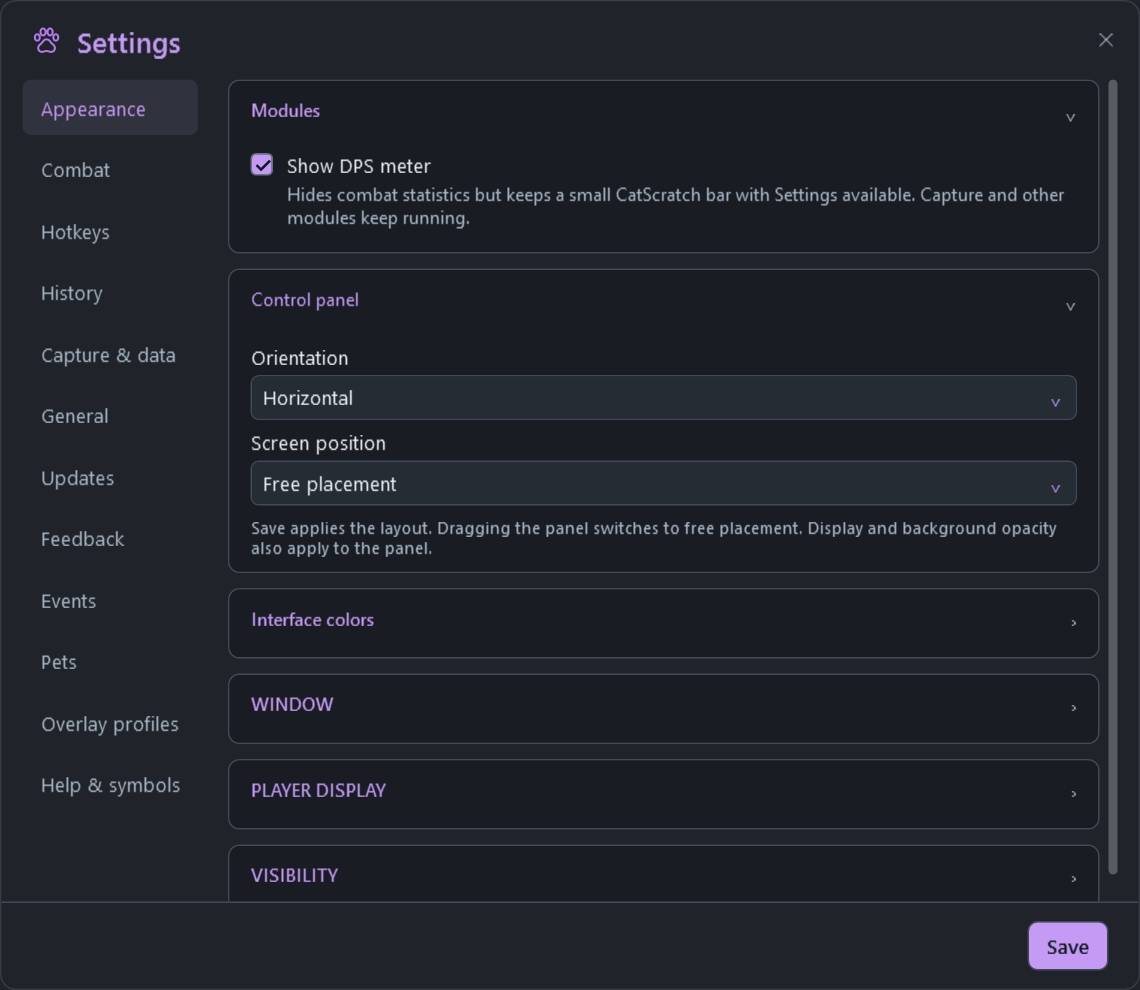
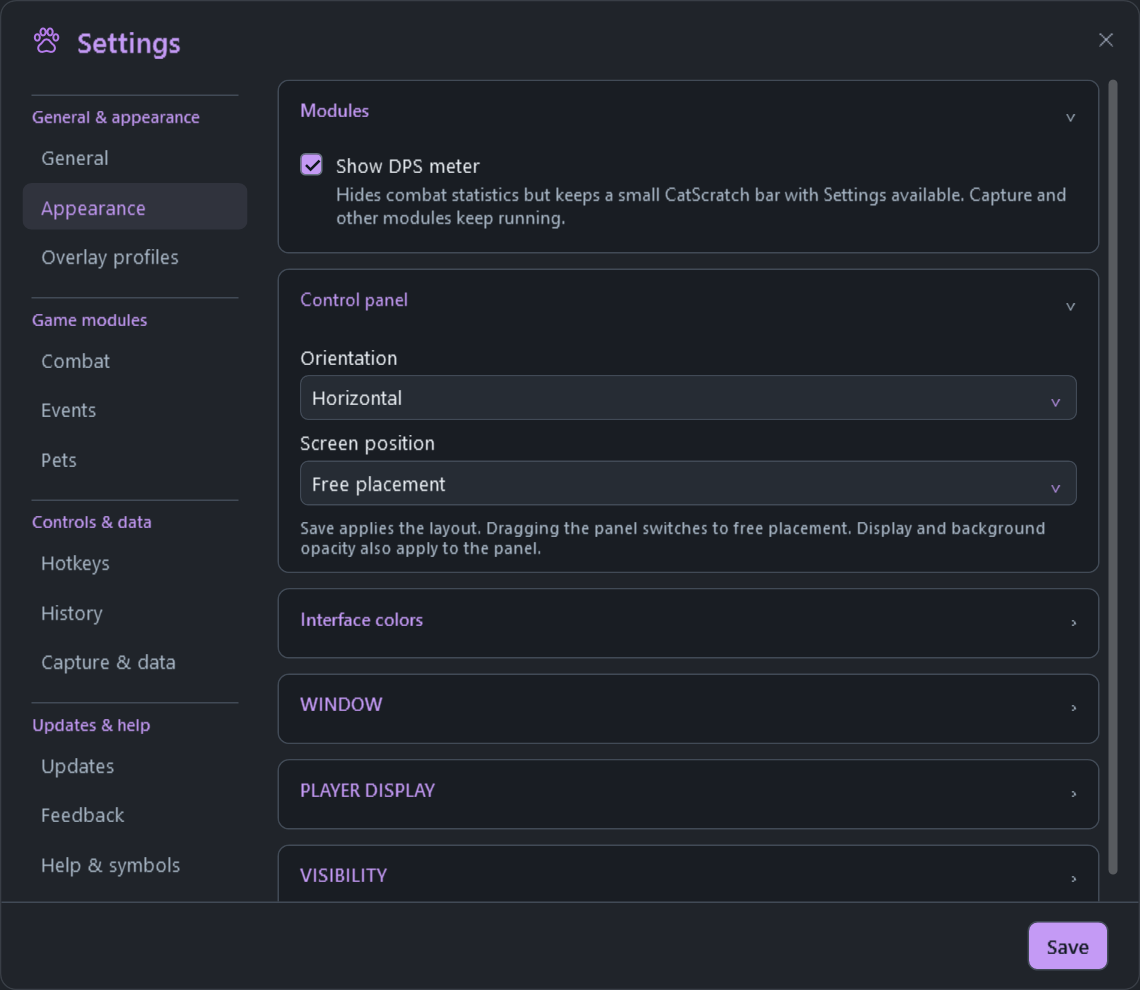
Release CatScratch 3.0.3 Stable with grouped Settings navigation

diff --git a/README.md b/README.md
@@ -6,10 +6,10 @@ A separate, always-on-top Windows DPS meter for **AION 2**, by Zerafithekitten. 
 
 | Channel | Current version | What it includes |
 | --- | --- | --- |
-| **Stable** | **[v3.0.2](https://github.com/Zerafithekitten/CatScratch/releases/tag/v3.0.2)** | Independent control panel, reworked Pet tracker with five recommendations, custom colors and transparency, event timeline and favorites, effective healing and the complete tested Beta feature set. |
+| **Stable** | **[v3.0.3](https://github.com/Zerafithekitten/CatScratch/releases/tag/v3.0.3)** | Independent control panel, reworked Pet tracker with five recommendations, custom colors and transparency, event timeline and favorites, effective healing and the complete tested Beta feature set. |
 | **Beta** | [Previous: v3.0.1-beta.25](https://github.com/Zerafithekitten/CatScratch/releases/tag/v3.0.1-beta.25) | Promoted to Stable 3.0.1. No newer Beta is currently required for these features. |
 
-English is the default. German, Russian and French are also available. Screenshots use synthetic sample data; names and numbers are examples. All features described below are included in **Stable v3.0.1** unless a limitation is stated.
+English is the default. German, Russian and French are also available. Screenshots use synthetic sample data; names and numbers are examples. All features described below are included in **Stable v3.0.3** unless a limitation is stated.
 
 ## Contents
 
@@ -241,7 +241,7 @@ The small green **Update!** notice appears **only after the update is fully prep
 
 After a successful new startup, the old backup, staged payload and downloaded ZIP are removed. Failed updates retain recovery files. Settings, saved fights, personal bests, recent players and captures are preserved. Update staging stays under `userdata/temp/updates`; a writable program folder is required.
 
-When a Beta is promoted and its Stable build starts, Beta subscribers automatically return to the Stable update channel. A later deliberate switch back to Beta is respected until the next Stable transition. The installed version then shows the Stable number, currently **3.0.2** without a beta suffix.
+When a Beta is promoted and its Stable build starts, Beta subscribers automatically return to the Stable update channel. A later deliberate switch back to Beta is respected until the next Stable transition. The installed version then shows the Stable number, currently **3.0.3** without a beta suffix.
 
 Use **Check now** in Settings or **Check for updates** in the tray menu for a manual check. Automatic checking and preparation can be disabled in Settings. CatScratch also reduces data-loading allocations and moves optional startup work behind the first meter display.
 
@@ -284,6 +284,8 @@ Record a combination in **Settings > Hotkeys** and save. Defaults:
 The all-window shortcut restores the previously open windows and their positions. App shortcuts pause while Settings is active. The main window's **X exits the entire program**; show/hide shortcuts only change visibility. The tray menu remains available in click-through mode.
 
 <details><summary>Settings preview</summary>
+
+The Settings sidebar groups related pages under **General & appearance**, **Game modules**, **Controls & data** and **Updates & help**, with clear headings and dividing lines. The topic order stays consistent in all four languages.
 
 <img src="docs/screenshots/settings.png" alt="Current CatScratch settings in the meter's dark gray and purple style" width="760" />
 

diff --git a/data/patchnotes-en.md b/data/patchnotes-en.md
@@ -1,3 +1,31 @@
+## CatScratch v3.0.3
+
+This Stable update makes the central Settings navigation easier to scan. The existing CatScratch styling and DPS meter layout are preserved, and all settings retain their current values and behavior.
+
+### SETTINGS — ORGANIZED BY TOPIC
+
+The left sidebar now follows a fixed topic-based order rather than mixing general options, individual modules and support tools:
+
+- **General & appearance:** General, Appearance, Overlay profiles.
+- **Game modules:** Combat, Events, Pets.
+- **Controls & data:** Hotkeys, History, Capture & data.
+- **Updates & help:** Updates, Feedback, Help & symbols.
+
+Each group has a clear heading in the current accent color and a horizontal dividing line. Compact spacing keeps all twelve tabs visible at the normal window height; the sidebar remains scrollable in smaller windows. Headings are translated for English, German, French and Russian, while the topic order stays consistent between languages.
+
+### EXISTING SETTINGS BEHAVIOR PRESERVED
+
+- Appearance remains the initially selected page, so the familiar display controls stay directly accessible.
+- Events shortcuts and invalid-color focus use stable section identifiers, keeping navigation correct after the reorder.
+- Save continues to apply and persist changes without closing Settings. The X closes the window and discards later unsaved edits.
+- Profiles, module visibility, capture, hotkeys, updates and feedback retain their existing functions. No preference reset or migration is required.
+- The combat display, class colors, statistics, control panel and other overlay modules retain their existing layout.
+
+### VALIDATION
+
+- The application built without warnings or errors, and all 1,127 integrated interaction checks passed after the sidebar changes.
+- The grouped sidebar was rendered and visually checked at the standard window size.
+- The release pipeline additionally runs core tests, window/shutdown checks, color persistence, optional game companion checks and the direct update test before publishing the downloads.
 ## CatScratch v3.0.2
 
 This Stable maintenance update keeps the complete 3.0.1 feature set and existing CatScratch layout. It corrects three edge cases found during a broader review of updates, capture restarts and module behavior. Your settings, saved fights, boss personal bests, recent teammates and pet collection progress are retained.

diff --git a/RELEASE-POLICY.md b/RELEASE-POLICY.md
@@ -1,5 +1,7 @@
 # Release policy
 
+On 2026-10-17 the owner explicitly authorized publishing the grouped, reordered Settings navigation directly to Stable as **3.0.3**, with detailed release notes.
+
 On 2026-10-17 the owner explicitly authorized publishing the completed stability review corrections directly to Stable as **3.0.2**, with detailed release notes.
 
 On 2026-10-17 the owner explicitly authorized promoting the complete v3.0.1-beta.25 stand to Stable as **3.0.1**. Publish detailed notes covering every change since Stable 3.0.0, with prominent Main CatScratch Panel and Pet Tracker Rework headings. Keep the automatic Beta-to-Stable update-channel transition.
